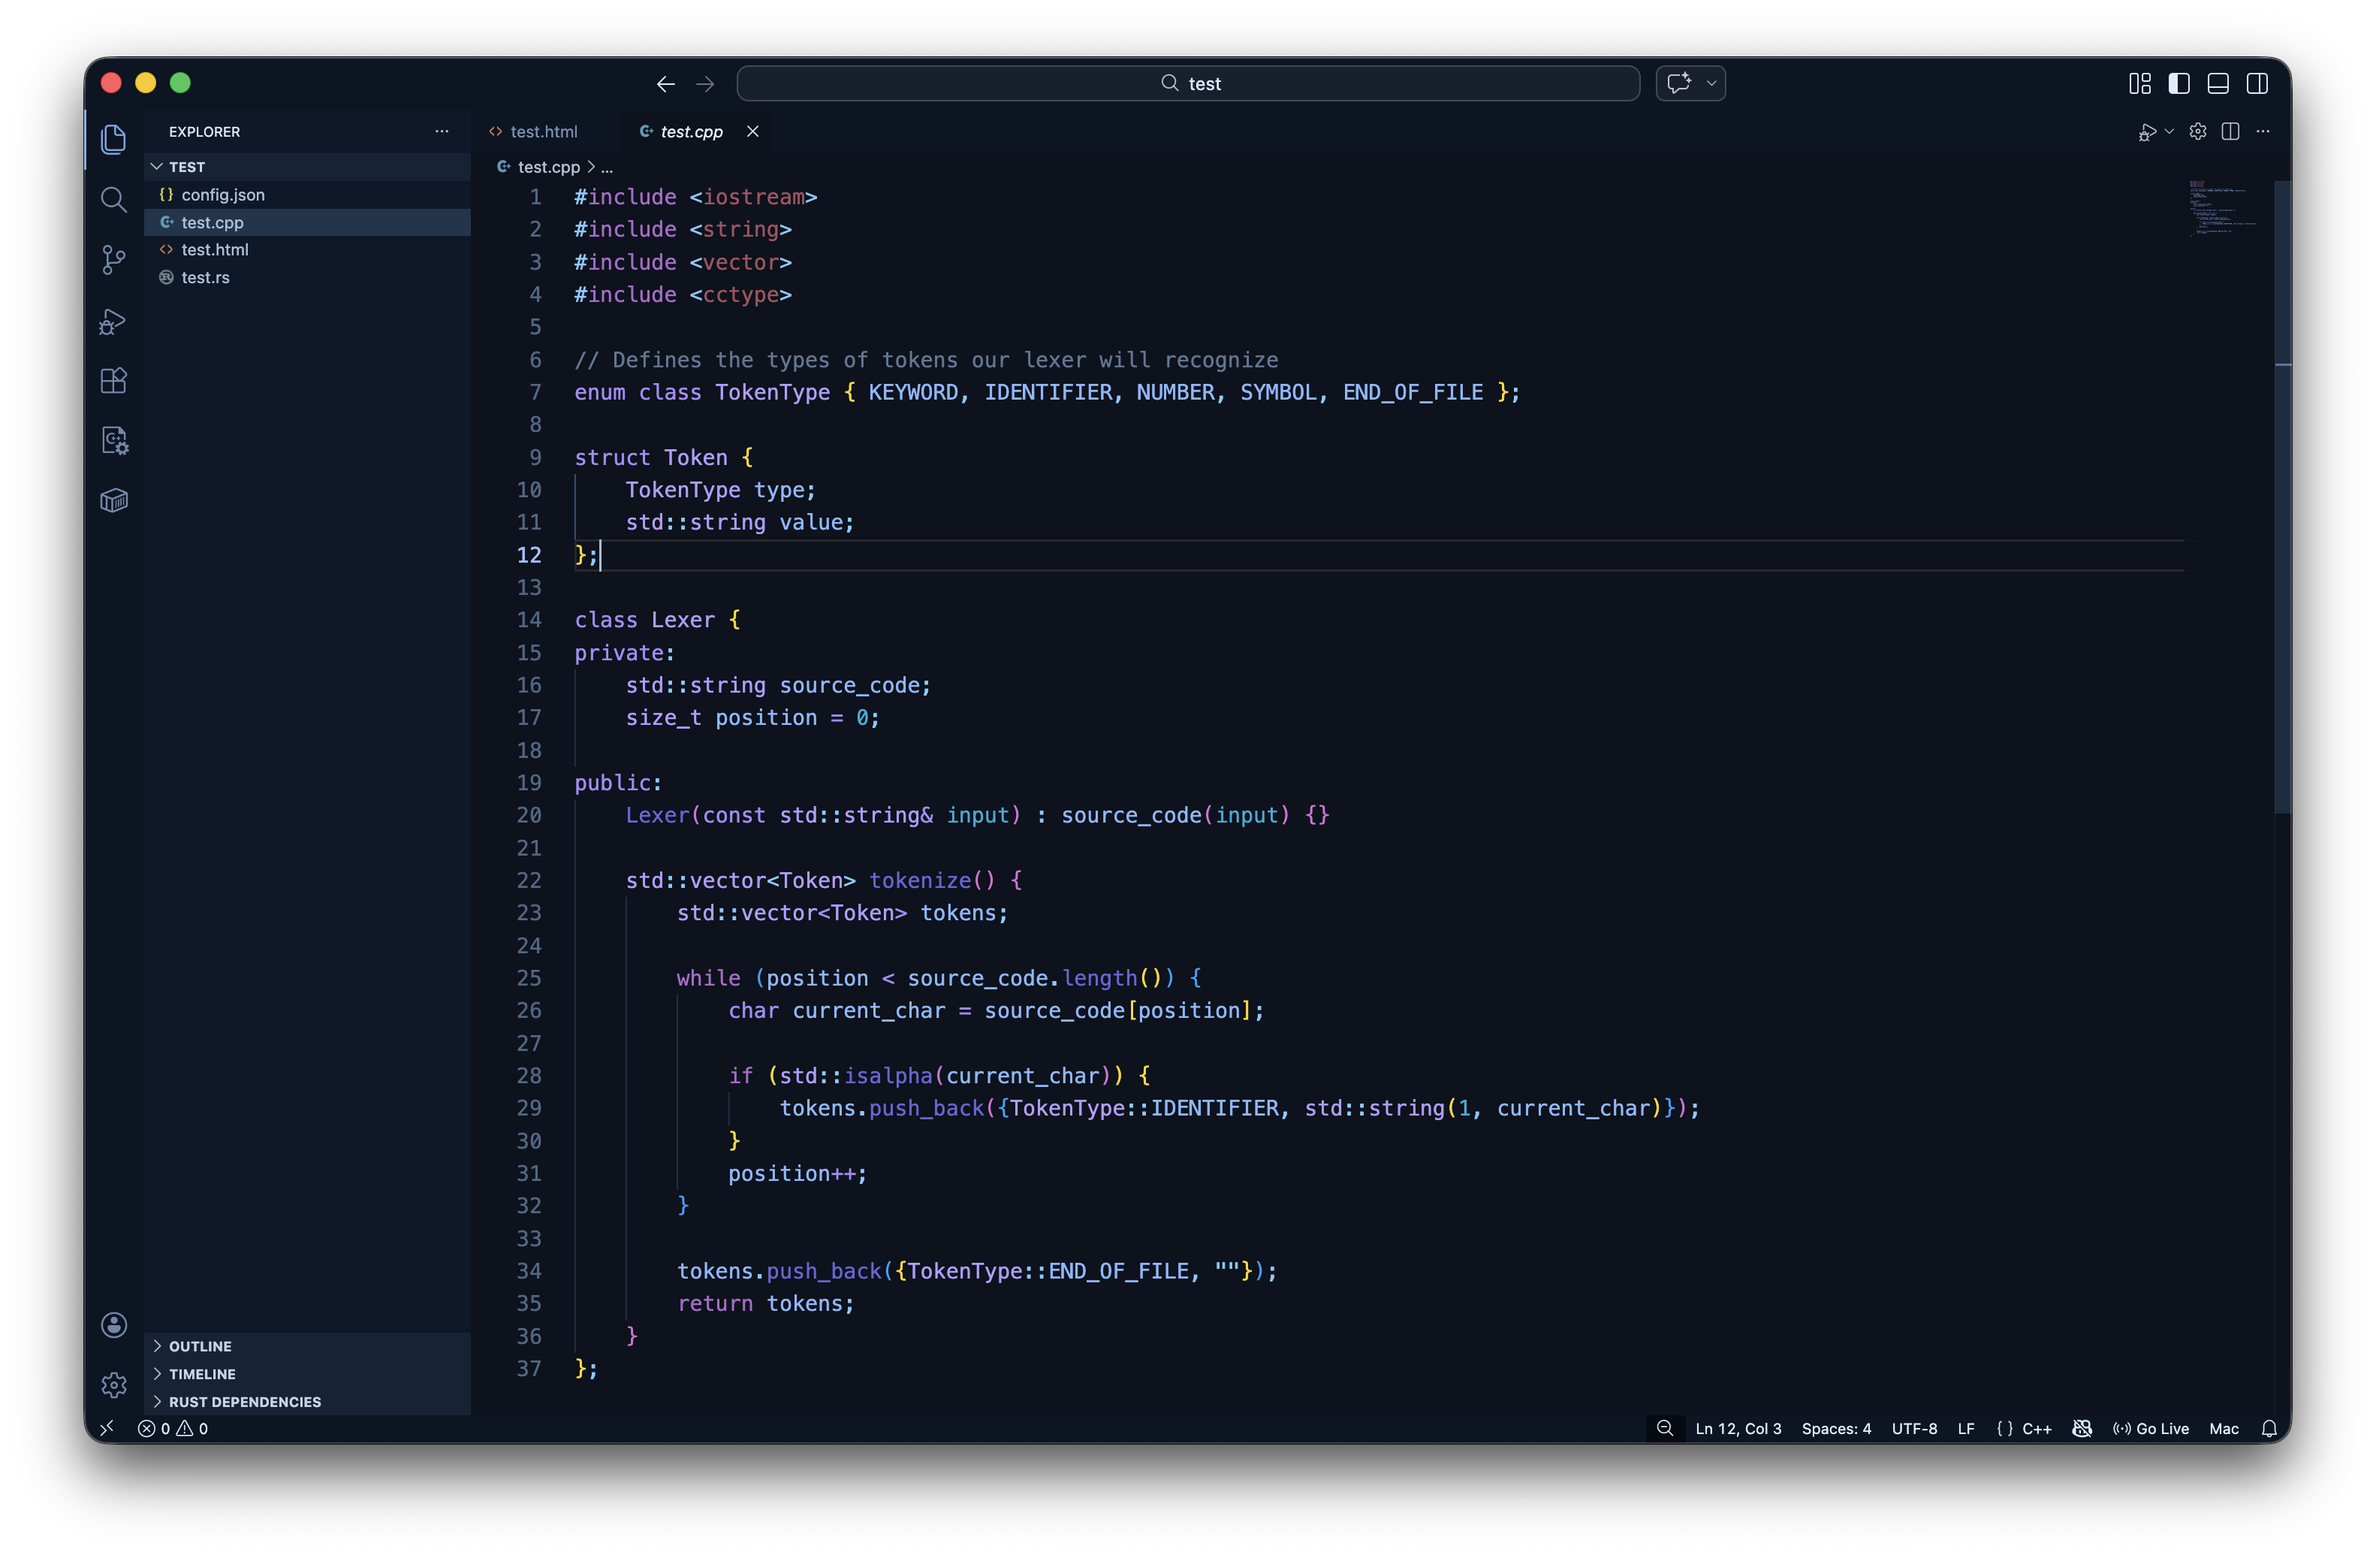
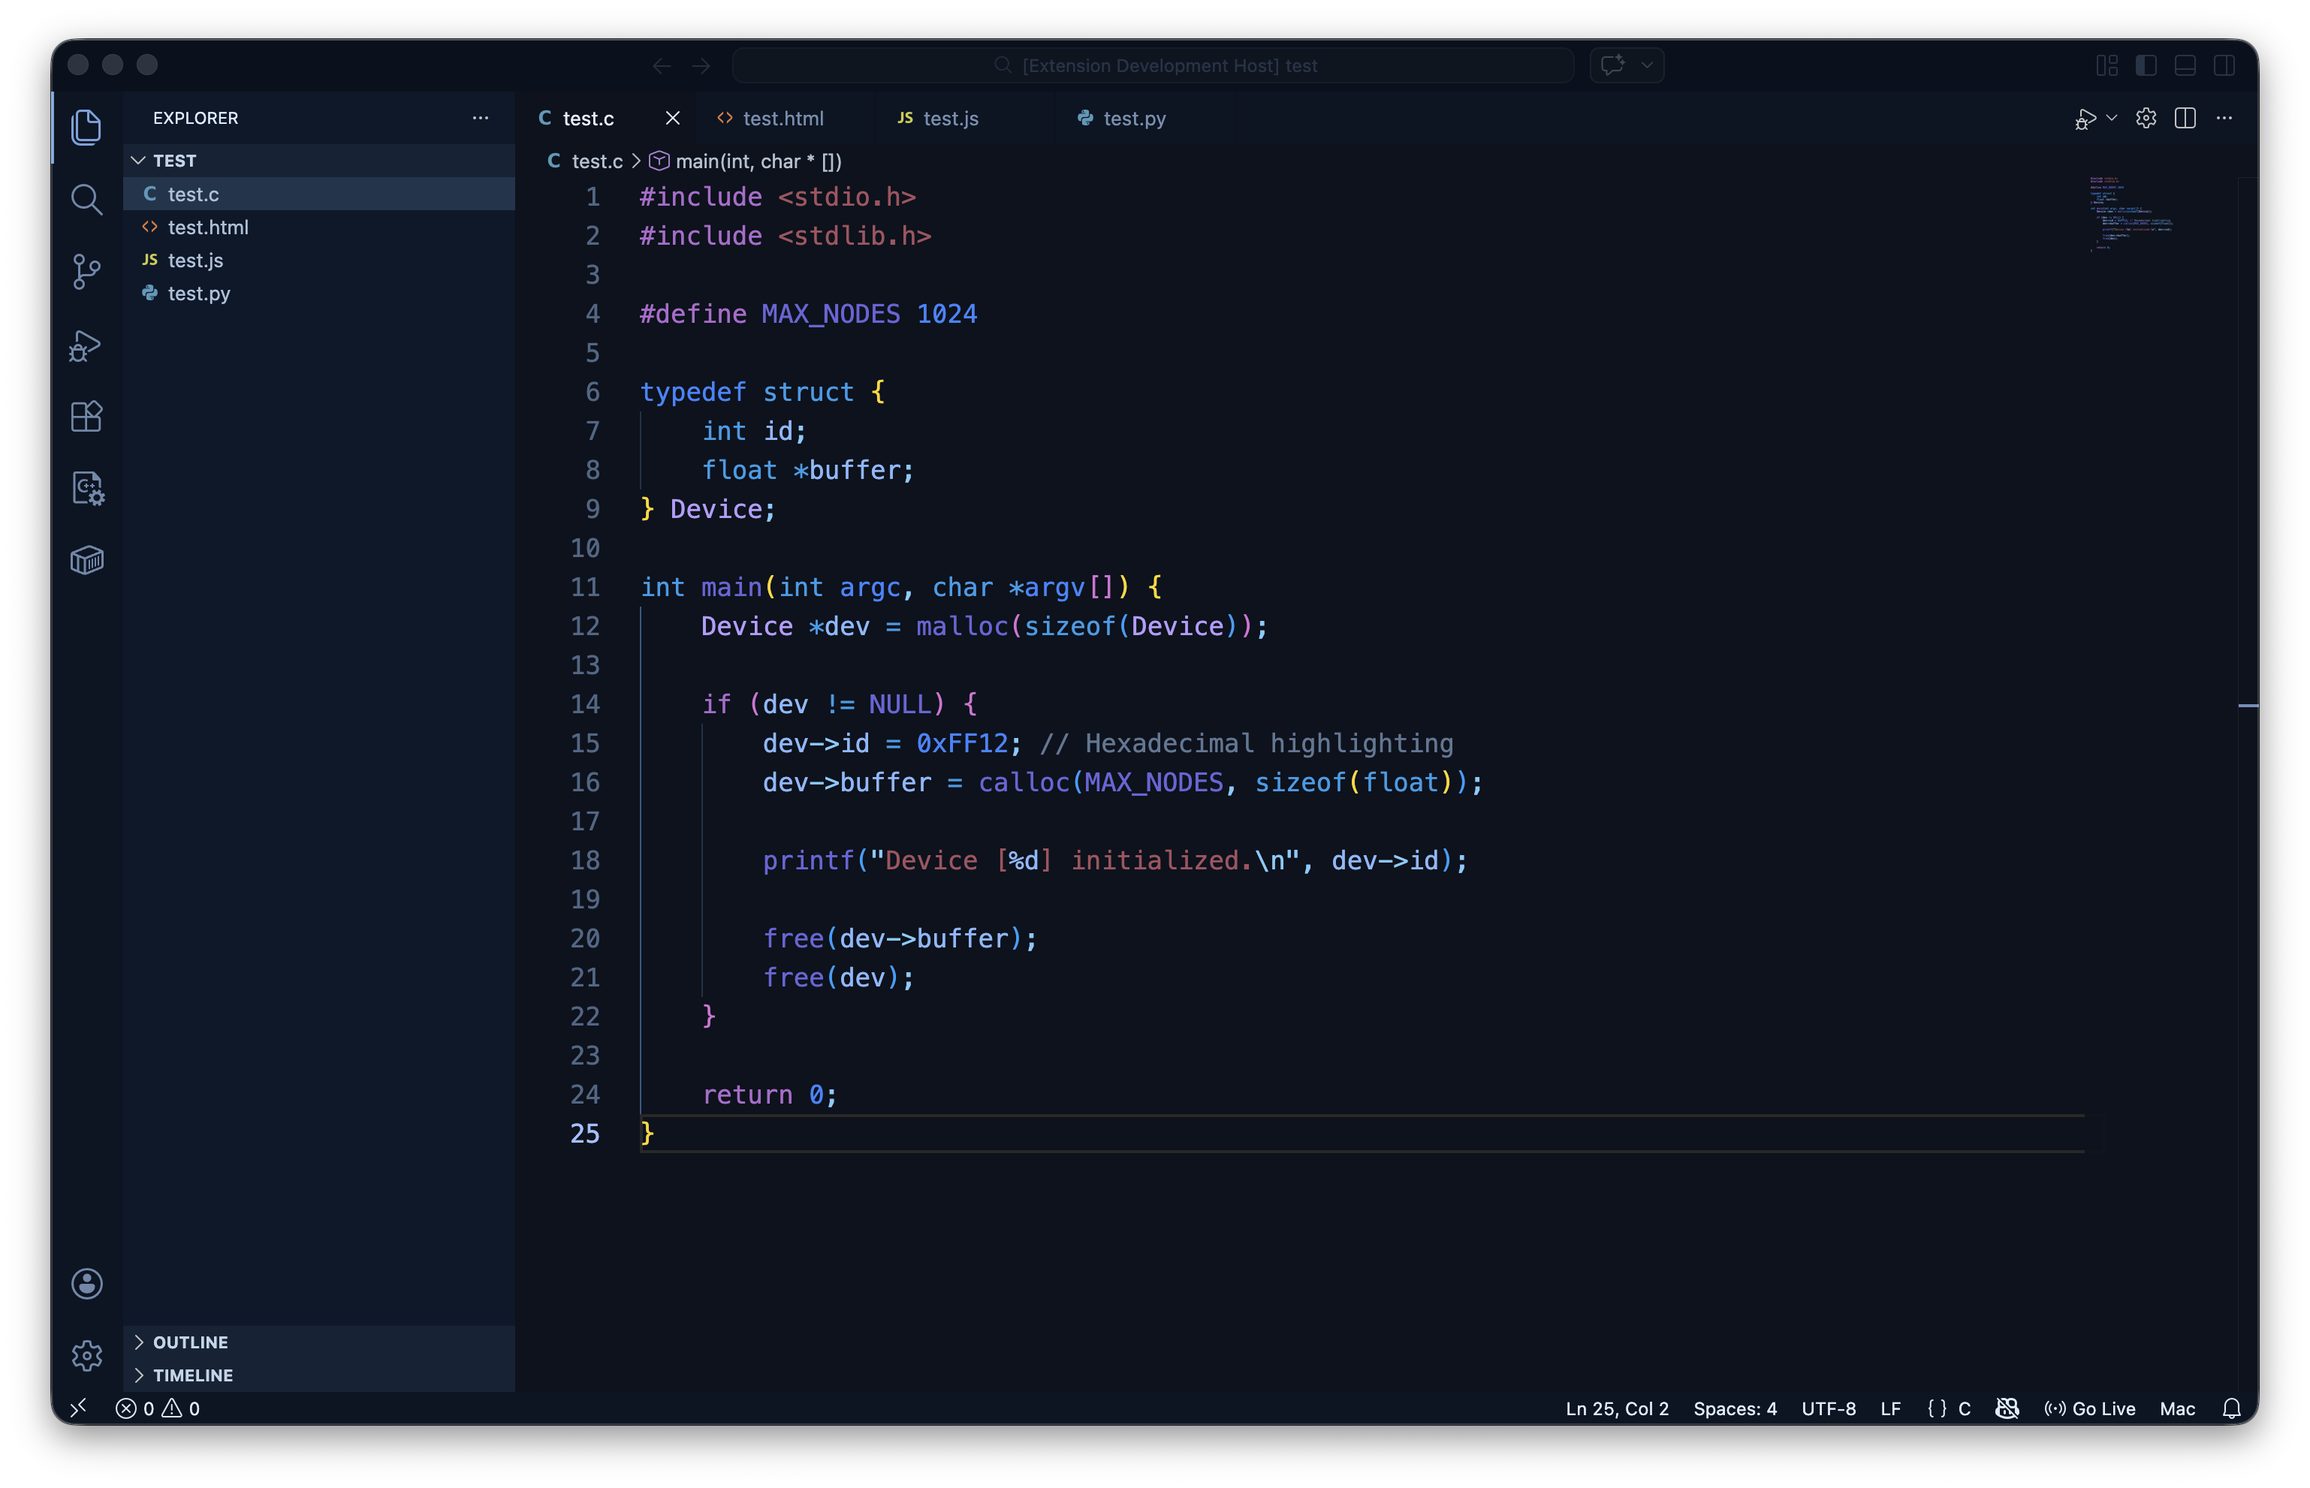
new ss added

diff --git a/README.md b/README.md
@@ -18,6 +18,8 @@ Here is how the theme looks in action:
 
 ![Screenshot of Theme UI 3](images/ss3.png)
 
+![Screenshot of Theme UI 4](images/ss4.png)
+
 
 ## Install
 
